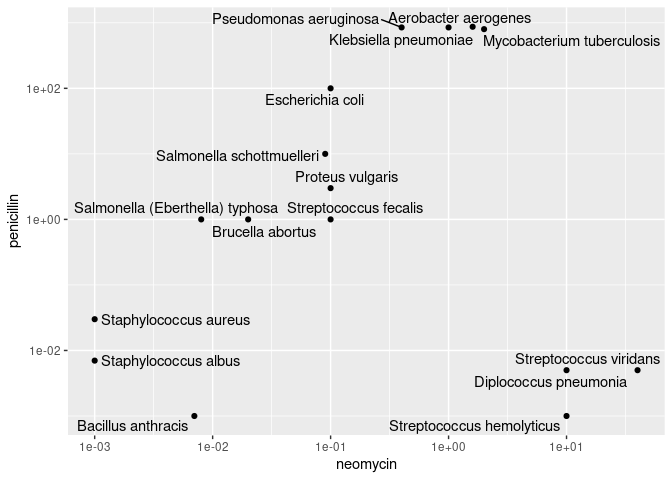
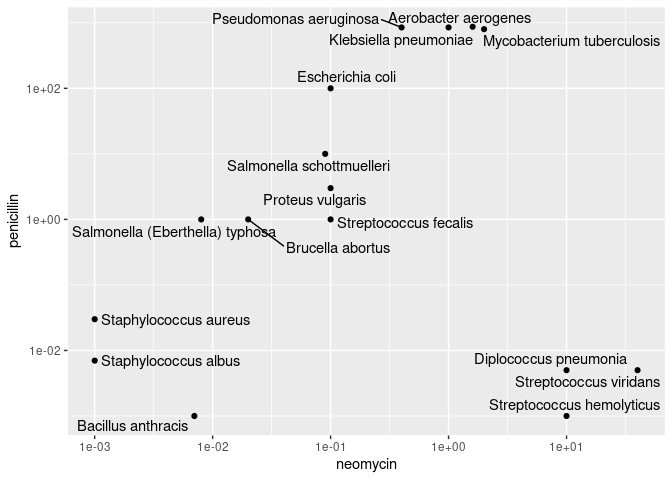
add name to challenge 5

Changed region(s): [[0.0938, 0.3125, 0.7188, 0.5312], [0.5625, 0.7188, 1.0, 0.9062], [0.375, 0.1562, 0.5938, 0.2188]]

diff --git a/challenges/c05-antibiotics-assignment.md b/challenges/c05-antibiotics-assignment.md
@@ -1,7 +1,7 @@
 Antibiotics
 ================
-(Your name here)
-2020-
+Zara Coakley
+October 2026
 
 *Purpose*: Creating effective data visualizations is an *iterative*
 process; very rarely will the first graph you make be the most
